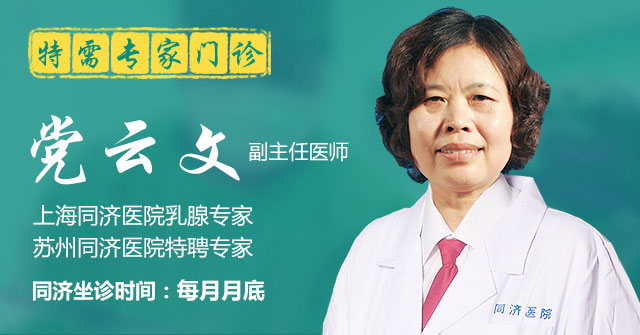
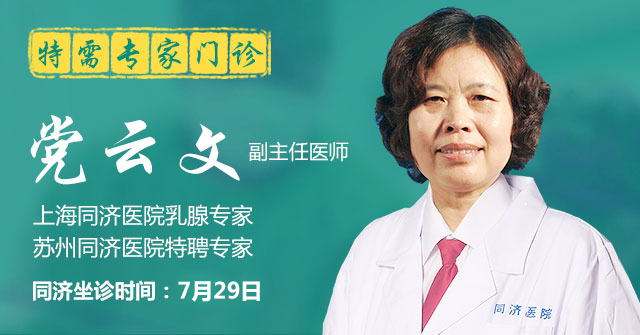
update

Changed region(s): [[0.25, 0.8358, 0.4375, 0.9254]]

diff --git a/js/zjList.js b/js/zjList.js
@@ -17,6 +17,7 @@ var zjList = {
   yanhui: ['严辉', '消化内科', '2020-07-12;2020-07-26'],
   wenxiaochi: ['温晓持', '消化内科', '2020-07-06;2020-07-13;2020-07-20;2020-07-27'],
   luzhongkai: ['陆忠凯', '消化内科', '2020-07-06;2020-07-13;2020-07-20;2020-07-27'],
+  jiazhenyu: ['贾振宇', '消化内科', '2020-07-08;2020-07-15;2020-07-22;2020-07-29'],
   wangshaofeng: ['王少峰', '消化内科', '2020-07-07;2020-07-14;2020-07-21;2020-07-28'],
   huaxian: ['华娴', '消化内科', '2020-07-07;2020-07-14;2020-07-21;2020-07-28'],
   xugao: ['徐杲', '消化内科', '2020-07-01;2020-07-08;2020-07-15;2020-07-22;2020-07-29'],

diff --git a/zj.html b/zj.html
@@ -32,7 +32,7 @@
       <input type="hidden" name="diyid" value="2" />
       <input type="hidden" name="do" value="2" />
       <el-form-item label="">
-        <el-input id="name" v-model="name" placeholder="请输入您的姓名"></el-input>
+        <el-input name="name" id="name" v-model="name" placeholder="请输入您的姓名"></el-input>
       </el-form-item>
       <el-form-item label="">
         <el-input name="tel" id="tel" type="number" v-model="tel" minlength="7" placeholder="请输入您的电话号码"></el-input>
